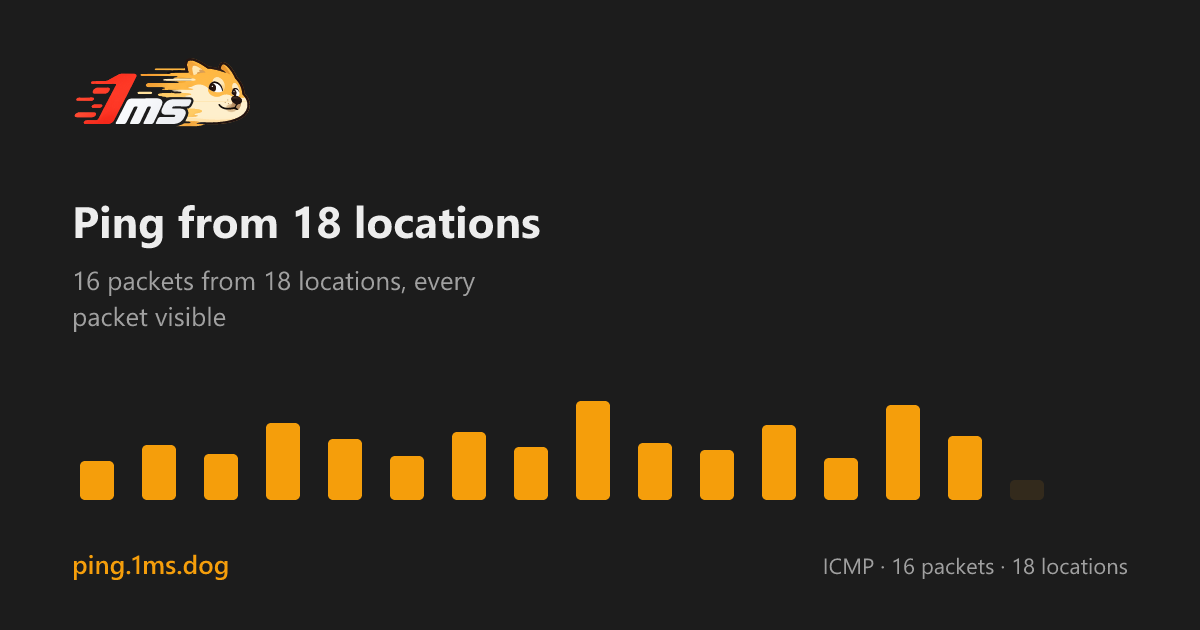
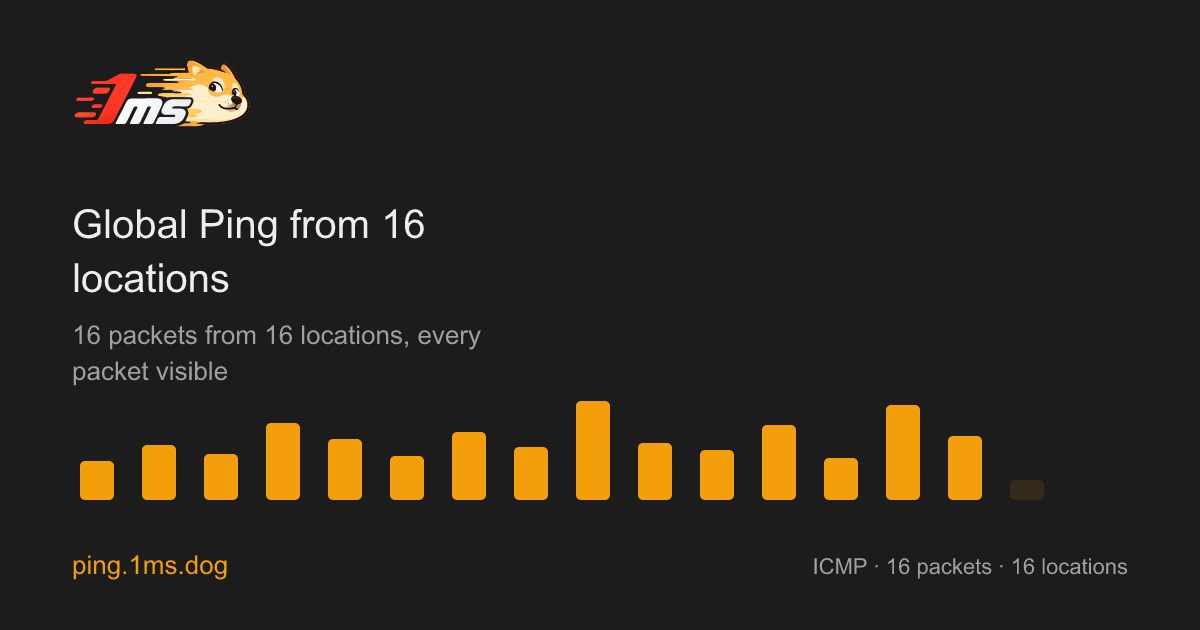
Sixteen regions: one China, and reach's continent-title spacing
Mainland China is an ordinary Asia-Pacific region now; the three
carrier presets and the China group are gone, so the home page tests 16
regions and the copy, FAQ, share card and llms.txt say 16. Old result
links still open: their cn:<asn> rows read as CN.

The continent titles take reach's values: 13px at 500, 6px 2px padding,
32px minimum, a line under the title, and the country chips start 12px
in; the globe stays.

diff --git a/src/app.js b/src/app.js
@@ -1,4 +1,4 @@
-// Global Ping: ping a domain or IP from 18 locations worldwide, 16 ICMP packets each, every packet visible. Globalping's
+// Global Ping: ping a domain or IP from 16 locations worldwide, 16 ICMP packets each, every packet visible. Globalping's
 // probes run the worldwide view straight from the visitor's browser (each visitor spends their own hourly allowance);
 // our own server in Tokyo gives a second view that uses none of it. Strings come from window.L1MS
 // (assets/l.<lang>.<hash>.js, built from src/i18n/); the model and the result-link code are shared with the Worker.
@@ -17,7 +17,7 @@ const REGIONS = TOPIC ? D.ranges : HOME_REGIONS;
 const WITH_TOKYO = !!TOKYO_API && !TOPIC;
 const $ = id => document.getElementById(id);
 const esc = s => String(s ?? "").replace(/[&<>"']/g, c => ({ "&": "&amp;", "<": "&lt;", ">": "&gt;", '"': "&quot;", "'": "&#39;" })[c]);
-// Chinese copy: keep a space between Han and Latin/digits (18 个地区, Globalping 的), no space between two Han words
+// Chinese copy: keep a space between Han and Latin/digits (16 个地区, Globalping 的), no space between two Han words
 // or before Chinese punctuation. Templates put spaces around placeholders for other languages, so tidy what is shown.
 const tidy = s => {
   s = String(s).replace(/[ \t]{2,}/g, " ");
@@ -142,7 +142,7 @@ helpQs.forEach(b => { b.onclick = () => showHelp(+b.dataset.hq); });
 $("helpSel").onchange = e => showHelp(+e.target.value);
 all("[data-hstep]").forEach(b => { b.onclick = () => showHelp(helpIdx + +b.dataset.hstep); });
 
-// row names: carriers by name, city probes with their country, the rest by country. Taiwan is the fixed exception.
+// row names: city probes with their country, the rest by country. Taiwan is the fixed exception.
 // Our own Tokyo server is not one of the 18 and is named by its source.
 const ours = region => region.key === TOKYO_REGION.key;
 // A topic page names a row by the probe itself: city, network and ASN, as soon as the API has told us who it is (the
@@ -166,7 +166,6 @@ function labelDuplicates(rows) {
 }
 const nameOf = region => {
   if (ours(region)) return t("t_label");
-  if (region.carrier) return t("c_" + region.carrier);
   if (region.city) return `${countryName(region.cc, D.lang)} · ${t("city_" + region.city)}`;
   if (region.label) return region.label;   // a country page's "Probe 1" until the city is known
   return countryName(region.cc, D.lang);
@@ -385,7 +384,7 @@ function settle(s) {
 // The list is grouped like Reach Check: a heading per group, the regions in a fixed order. With headings, a global
 // sort would scramble the groups, so there is no sort control (the page is a comparison, the finding lines call out
 // the extremes).
-const GROUPS = ["cn", "apac", "emea", "am"];
+const GROUPS = ["apac", "emea", "am"];
 
 function buildRows(s) {
   rowEls = new Map(); detailEls = new Map();
@@ -679,7 +678,6 @@ function drawFindings(s) {
     if (f.k === "fd_loss") vars.pct = fmtPct(f.pct / 100, D.lang, 1);
     if (Number.isFinite(vars.ours)) vars.ours = fmtMs(vars.ours, D.lang);
     if (Number.isFinite(vars.theirs)) vars.theirs = fmtMs(vars.theirs, D.lang);
-    if (f.k === "fd_cn") { vars.telecom = fmtMs(f.telecom.median, D.lang); vars.unicom = fmtMs(f.unicom.median, D.lang); vars.mobile = fmtMs(f.mobile.median, D.lang); }
     const lk = links[f.k];
     return `<li><span>${esc(t(f.k, vars))}</span>${lk ? toolLink(lk[0], lk[1]) : ""}</li>`;
   }).join("");

diff --git a/src/style.css b/src/style.css
@@ -223,7 +223,9 @@ select option, select optgroup { background-color: var(--panel); color: var(--fg
 .route { margin: 0; color: var(--fg); font-size: 14px; line-height: 1.6; }
 .rg-cities { display: flex; flex-wrap: wrap; gap: 6px 14px; margin: 4px 0 0; padding: 0; list-style: none; font-size: 14px; }
 .rg-cities li { display: inline-flex; align-items: baseline; gap: 6px; }
-.rg-cc, .rg-ccards { list-style: none; margin: 2px 0 4px; padding: 0; display: flex; flex-wrap: wrap; gap: 8px; }
+.rg-cc, .rg-ccards { list-style: none; display: flex; flex-wrap: wrap; gap: 8px; }
+.rg-cc { margin: 0; padding: 0 0 8px 12px; }
+.rg-ccards { margin: 2px 0 4px; padding: 0; }
 /* A country is a chip: flag and name, the whole chip the link. The lists read as a dense flow, not a card grid. */
 .rg-chip { display: inline-flex; align-items: center; gap: 8px; min-height: 32px; padding: 4px 10px; border-radius: 8px;
   background: var(--soft); color: var(--fg); font-size: 14px; font-weight: 400; white-space: nowrap; }
@@ -258,11 +260,11 @@ select option, select optgroup { background-color: var(--panel); color: var(--fg
 .region-nav { display: flex; flex-direction: column; gap: 8px; }
 .region-nav h2 { margin: 0; font-size: 15px; }
 .rg-list { display: flex; flex-direction: column; border-top: 1px solid var(--line); }
-.rg-cont { display: flex; flex-direction: column; gap: 4px; padding: 4px 0; border-bottom: 1px solid var(--line); }
-.rg-cont-link { display: flex; align-items: center; gap: 8px; min-height: 40px; padding: 4px 6px; border-radius: 8px; color: var(--fg); font-size: 15px; font-weight: 500; }
+.rg-cont { display: flex; flex-direction: column; gap: 4px; padding: 0; }
+.rg-cont-link { display: flex; align-items: center; gap: 8px; min-height: 32px; padding: 6px 2px; border-bottom: 1px solid var(--line); border-radius: 0; color: var(--fg); font-size: var(--fs-small); font-weight: 500; }
 .rg-cont-link:hover { background: var(--soft); text-decoration: none; }
 .rg-cont-link[aria-current="page"] { background: var(--soft); }
-.rg-ic { width: 18px; height: 18px; color: var(--muted); flex: none; }
+.rg-ic { width: 16px; height: 16px; color: var(--muted); flex: none; }
 
 /* the allowance is too low: the button is not disabled (it must take the click), but it looks and says off */
 .btn[aria-disabled="true"] { opacity: .45; cursor: not-allowed; }

diff --git a/docs/decisions.md b/docs/decisions.md
@@ -3,6 +3,14 @@
 产品和技术上定下来的事、试过并放弃的事。按日期倒序，一句话说明「是什么」和「为什么」。面向所有维护者，
 所以写通用的理由，不写某个部署的域名、端口和账号。
 
+## 2026-11-24 · 首页地区：中国作为一个普通地区（方案 B）
+
+- **去掉中国电信 / 联通 / 移动三个预设，中国作为一个普通地区放进亚太组**（站长 2026-11-24 定）：地区数从 18 变成 16，
+  中国那一行和其他国家一样按国家探测，不再按 ASN 指定运营商。理由：三个预设让「中国」在首页占三行、还要单独解释
+  三网差异；国家页和大洲页本来就是一个国家一个探测点，首页跟着统一。`fd_cn` 发现（三网延迟差异）随之删除；旧的结果
+  链接里 `cn:4134` 等键在 `src/code.mjs` 里按 CN 读，老链接仍能打开。
+- 文案、SEO、FAQ、分享卡、README、llms.txt 里的「18 个地区 / 18 locations」一并改成 16；「每次检测用」由地区数自动算。
+
 ## 2026-11-24 · 国家与大洲专题页
 
 - **按 Globalping 的节点分布出专题页**（站长 2026-11-24 立项，清单与规则见 1ms.dog 的 `docs/regions.md`）：86 个国家
@@ -12,8 +20,8 @@
   目录撞车：`/de/` 是德语首页，而 DE 是德国；`es`、`fr`、`pt`、`ru` 同样。所以国家页嵌在洲下面，面包屑也就在
   地址里了。reach 用同一套路径，跨工具链接直接拼。
 - **进入页面不测，点「测试」才发请求**（站长定）。国家页一次向该国要 5 个探测点（Globalping 尽量给不同城市/ASN）；大洲页用一次请求带该洲节点最多的
-  10 个国家（大洋洲只有 2 个，就测 2 个），结果并排；首页的 18 个地区不变。国家页不显示东京行、不做发现行、
-  不生成分享链接：分享格式只认 18 个地区。
+  10 个国家（大洋洲只有 2 个，就测 2 个），结果并排；首页的 16 个地区不变。国家页不显示东京行、不做发现行、
+  不生成分享链接：分享格式只认 16 个地区。
 - **Globalping 的库存数字不上页面**（站长 2026-11-24 纠正）：节点数、城市数、ASN 数、eyeball 占比和 `city_list`
   只用于排序和挑选探针，页面、SEO 描述、JSON-LD、分享卡都不出现——它们会被误读成我们提供的测试点。国家页的独有
   内容是人工写的该国网络特点（来自 shell 的共享文案）、所在大洲（面包屑和地区块）；大洲页保留线路特点和国家数量，其地区块只列**其它五个大洲**（本洲的国家已经在上面），
@@ -23,7 +31,7 @@
   `GET /v1/measurements/<id>`，此时 `results[].probe` 已有 city/network/asn，所以行名一开始就是
   「Falkenstein · Hetzner Online · AS24940」，数字列留空、状态「等待中…」；第一次拉取还没拿到 probe 时只显示
   「正在分配测试节点…」，不回退成「节点 1/2/3」。同城同网络同 ASN 的节点用 probe 的 `u-` 标签区分，没有标签时用
-  A/B/C 后缀（不是数字编号）；国家页 5 行、大洲页 10 行都这样。首页 18 个地区的行名仍是地区名。
+  A/B/C 后缀（不是数字编号）；国家页 5 行、大洲页 10 行都这样。首页 16 个地区的行名仍是地区名。
 - **每个节点行的名称前有探针所在国的国旗**（站长 2026-11-24）：用 `probe.country` 取 `/flags/<cc>.svg`，16×12，
   与名称间距 6–8px；国家页 5 行即使同国也各带一面，大洲页 10 行、首页地区行和东京行同样。台湾照契约用 `cn.svg`。
   结果还没回来时先用请求的国家，probe 回来后再按 `probe.country`。

diff --git a/README.md b/README.md
@@ -2,16 +2,16 @@
 
 **English** · [简体中文](README.zh-CN.md)
 
-Ping a domain or IP from 18 locations worldwide, 16 ICMP packets per location, and see **every packet**: its latency,
+Ping a domain or IP from 16 locations worldwide, 16 ICMP packets per location, and see **every packet**: its latency,
 the jitter, and where packets went missing. A second view comes from our own server in Tokyo.
 
 **Live:** https://ping.1ms.dog
 
-- **Worldwide view**: [Globalping](https://globalping.io)'s volunteer probes in 18 regions (China Telecom, China Unicom
-  and China Mobile; Hong Kong; Taiwan, China; Tokyo; Korea; Singapore; India; Australia; London; Frankfurt; Russia; the
-  UAE; South Africa; Los Angeles; New York; São Paulo) each send 16 ICMP echo requests to the target. The browser calls
+- **Worldwide view**: [Globalping](https://globalping.io)'s volunteer probes in 16 regions (China; Hong Kong;
+  Taiwan, China; Tokyo; Korea; Singapore; India; Australia; London; Frankfurt; Russia; the UAE; South Africa;
+  Los Angeles; New York; São Paulo) each send 16 ICMP echo requests to the target. The browser calls
   Globalping's API directly, so each visitor spends their own free allowance (250 region checks an hour per IP; one
-  region sending 16 packets is one region check, and one test here uses 18).
+  region sending 16 packets is one region check, and one test here uses 16).
 - **Tokyo view**: our own server sends the same 16 packets. It uses none of that allowance (so it is the fallback when
   it runs out), it is the view that always knows the real loss positions, and comparing it with Globalping's Tokyo probe
   shows whether the two networks see the same path.
@@ -78,7 +78,7 @@ src/topic.html      the country and continent page template
 src/app.js          the page: Globalping, the Tokyo view, the verdict and the cards
 src/regions.mjs     the country list's helpers: slugs, neighbours, the countries a continent tests
 src/regions.json    the shared list, vendored unchanged from 1ms.dog's shell (see docs/decisions.md)
-src/model.mjs       the 18 regions, one probe's 16 packets, verdicts, findings (shared with the Worker and the tests)
+src/model.mjs       the 16 regions, one probe's 16 packets, verdicts, findings (shared with the Worker and the tests)
 src/config.mjs      the only deployment-specific address: TOKYO_API
 src/style.css       design tokens (shared with the other 1ms.dog tools) and layout
 src/code.mjs        a result in a link and back (the page and the Worker share it)

diff --git a/AGENTS.md b/AGENTS.md
@@ -9,7 +9,7 @@ the technical reasons behind it, and what was tried and dropped, are in [docs/de
 Global Ping answers "how does this domain or IP answer ICMP from around the world, and how does every single packet
 look?". Three parts:
 
-- **The page** (`src/`, built into `public/`): runs in the visitor's browser. Calls Globalping's API for the 18-region
+- **The page** (`src/`, built into `public/`): runs in the visitor's browser. Calls Globalping's API for the 16-region
   view, and our own server in Tokyo for the second view. The measurement model (`src/model.mjs`) is shared with the
   Worker and the tests.
 - **The Worker** (`src/worker.js`): only runs for shared result links (`/r/<code>`), to give their preview a title.
